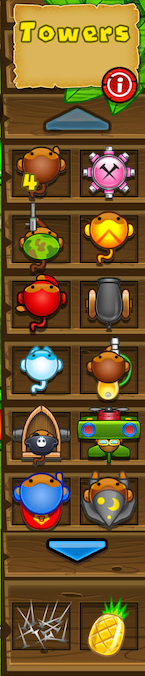
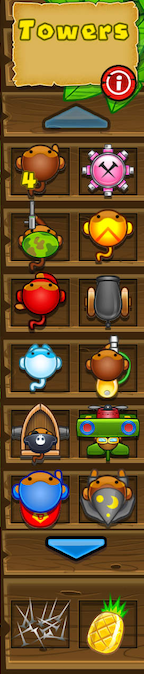
fjnsfd

diff --git a/src/TesterClass.java b/src/TesterClass.java
@@ -24,9 +24,10 @@ public class TesterClass {
 
 	private void start() {
 		BTDMap m1 = new Map1(height, width);
-		TowerPanel tp = new TowerPanel(145, height);
+		TowerPanel tp = new TowerPanel(height, 145);
 		m1.initializeTrack();
 		grid = m1.getGrid();
+//		ArrayList<GameObject> gameobjects = new ArrayList<>();
 		ArrayList<Spikes> spikes = new ArrayList<Spikes>();
 		spikes.add(new Spikes((int) (268 * m1.getWratio()), 100));
 //		m1.addBloon(new Bloon(12,0,93,0, new HashSet<Integer>()));
@@ -36,7 +37,6 @@ public class TesterClass {
 			public void paintComponent(Graphics g) {
 				super.paintComponent(g);
 				g.setColor(Color.BLACK);
-				tp.draw(g, m1);
 				m1.draw(g);
 //				for(int r = 0; r < grid.length; r++) {
 //					for(int c = 0; c < grid[0].length; c++) {
@@ -56,11 +56,12 @@ public class TesterClass {
 				for(Spikes s: spikes) {
 					s.draw(g,panel);
 				}
+				tp.draw(g, m1);
 			}
 		};
 		panel.setBackground(Color.WHITE);
 
-		panel.setPreferredSize(new Dimension(width + 200, height));
+		panel.setPreferredSize(new Dimension(width + 145, height));
 		frame.setDefaultCloseOperation(frame.EXIT_ON_CLOSE);
 		frame.add(panel);
 		frame.pack();

diff --git a/src/TowerPanel.java b/src/TowerPanel.java
@@ -6,7 +6,7 @@ import javax.imageio.ImageIO;
 
 public class TowerPanel {
 	private int height, width;
-	private Image img = null;
+	private Image img;
 	private String PATH_PREFIX = "images/";
 	
 	public TowerPanel(int h, int w) {
